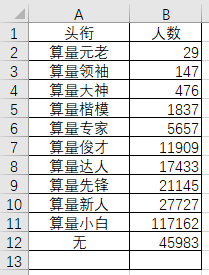
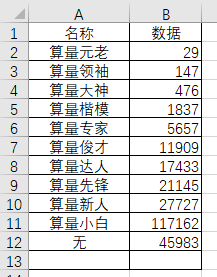
统一格式，导航页修改

diff --git a/src/components/guide.vue b/src/components/guide.vue
@@ -4,27 +4,33 @@
             <el-collapse-item title="百分比饼图 Pie" name="1">
                 <div><h2>数据格式</h2></div>
                 <div><img src="../assets/pie.png"></div>
-                <div><span>第一列为数据名，第二列为数据（表头除外）</span></div>
+                <div><span>表头固定，为“名称”和“数据”，第一列为数据名，第二列为数据</span></div>
+                <div><span>名称不能为空，否则这一项无法生成</span></div>
+                <a href="./static/xlsx/piecharts成长值.xlsx" download="pie.xlsx">Download file</a>
             </el-collapse-item>
             <el-collapse-item title="线柱图 Line/Bar" name="2">
                 <div><h2>数据格式</h2></div>
-                <div><img src="../assets/line.png"></div>
+                <div><img src="../assets/line2.png"></div>
                 <div>
-                    <span>第一列为数据名，第一行为生成表的X轴节点</span><br>
+                    <span>第一列为数据名，第一行为生成表的X轴节点，内容均不限</span><br>
                     <span>数据行数内不要有空缺，否则生成的图表节点会前移自动填补空缺</span><br>
                     <span>数据行数不限定，但数据相差过大可能影响生成的表的美观度</span><br>
 
-                    <img src="../assets/line2.png"><br>
-                    <span><b>配置项：</b><br>1.表项“Y”，值为“左”或“右”代表左y轴或右y轴，目前默认左为百分率右为数量</span><br>
-                    <span>2.表项“TYPE”，值为“bar”或“line”代表生成柱状图或折线图（默认为折线图）</span>
-
+                    <img src="../assets/line.png"><br>
+                    <span><b>可增加配置项：</b><br>1.表头“Y”，值为“左”或“右”代表左y轴（数量）或右y轴（百分率）</span><br>
+                    <span>2.表头“TYPE”，值为“bar”或“line”代表生成柱状图或折线图（默认为折线图）</span>
+                    <a href="./static/xlsx/linecharts日活月活崩溃率.xlsx" download="line.xlsx">Download file</a>
+                    <br>
+                    <div><img src="../assets/guide.png"></div>
+                    <span>此外所有图表右上角还有工具栏可对图表进行一些操作如显示局部区域，修改数据，下载原图或者显示/隐藏标签</span>
                 </div>
             </el-collapse-item>
             <el-collapse-item title="地图 Map" name="3">
                 <div><h2>数据格式</h2></div>
                 <div><img src="../assets/map.png"> </div>
-                <span>第一列为省份名称，第一行为数据名</span><br>
+                <span>表头固定，为“名称”和“数据”，第一列为省份名称，第二列为数据</span><br>
                 <span>生成的图表的颜色调整范围根据最大值和最小值设定</span><br>
+                <a href="./static/xlsx/mapchart用户活跃度分布.xlsx" download="map.xlsx">Download file</a>
             </el-collapse-item>
         </el-collapse>
 
@@ -36,7 +42,7 @@
     export default {
         data() {
             return {
-                activeNames: ['1']
+                activeNames: ['2']
             };
         },
         methods: {
@@ -49,6 +55,10 @@
 span{
     line-height: 40px;
     font-size: medium;
+}
+a{
+    color: #333333;
+    display:block;
 }
 
 </style>

diff --git a/vue.config.js b/vue.config.js
@@ -1,0 +1,147 @@
+module.exports = {
+
+    /* 部署应用包的基本URL */
+    /* baseUrl 从 Vue CLI 3.3 起已弃用 ，请使用publicPath */
+    //  baseUrl: process.env.NODE_ENV === "production" ? "./" : "./",
+    publicPath: process.env.NODE_ENV === "production" ? "./" : "./",
+
+    /* 生产环境构建文件的目录 defalut: dist */
+
+    outputDir: "dist",
+
+    /* 放置生成的静态文件目录（js css img） */
+
+    assetsDir: "static",
+
+    /* 指定生成的index.html 输出路径 相对 default: index.html */
+
+    indexPath: "index.html",
+
+    /* 指定生成文件名中包含hash default: true */
+
+    filenameHashing: true,
+
+    /* 多页模式下 */
+
+    /* pages: {
+
+      index: {
+
+        // page 的入口
+
+        entry: "src/index/main.js",
+
+        // 模板来源
+
+        template: "public/index.html",
+
+        // 在 dist/index.html 的输出
+
+        filename: "index.html",
+
+        // 当使用 title 选项时，
+
+        // template 中的 title 标签需要是 <title><%= htmlWebpackPlugin.options.title %></title>
+
+        // title: "Index Page",
+
+        // 在这个页面中包含的块，默认情况下会包含
+
+        // 提取出来的通用 chunk 和 vendor chunk。
+
+        chunks: ["chunk-vendors", "chunk-common", "index"]
+
+      },
+
+      // 当使用只有入口的字符串格式时，
+
+      // 模板会被推导为 `public/subpage.html`
+
+      // 并且如果找不到的话，就回退到 `public/index.html`。
+
+      // 输出文件名会被推导为 `subpage.html`。
+
+      // subpage: "src/subpage/main.js"
+
+    } */
+
+    /* 是否保存时 lint 代码 */
+
+    lintOnSave: process.env.NODE_ENV === "production",
+
+    /* 是否使用编译器 default: false */
+
+    runtimeCompiler: false,
+
+    /* 默认babel-loader会忽略node_modules中的文件，你想显示的话在这个选项中列出来 */
+
+    // transpileDependencies: [],
+
+    /* 生产环境的source map */
+
+    productionSourceMap: true,
+
+    // crossorigin: "",
+
+    integrity: false,
+
+    configureWebpack: {
+        resolve: {
+            alias: {
+                'assets': '@/assets',
+                'components': '@/components',
+                'views': '@/views',
+            }
+        }
+    },
+
+    // css相关配置
+
+    css: {
+
+        // 是否使用css分离插件 ExtractTextPlugin
+
+        extract: true,
+
+        // 开启 CSS source maps?
+
+        sourceMap: false,
+
+        // css预设器配置项
+
+        loaderOptions: {},
+
+        // 启用 CSS modules for all css / pre-processor files.
+
+        modules: false
+
+    },
+
+    devServer: {
+
+        port: 8080,
+
+        host: "0.0.0.0",
+
+        https: false,
+
+        // 自动启动浏览器
+
+        open: false,
+
+        proxy: {
+            "/api": {
+                //代理路径 例如 https://baidu.com
+                target:  "https://baidu.com",
+                // 将主机标头的原点更改为目标URL
+                changeOrigin: true,
+                ws: true,
+                pathRewrite: {
+                    "^/api": ""
+                }
+            }
+        }
+
+    }
+
+};

diff --git a/src/components/linechart.vue b/src/components/linechart.vue
@@ -35,16 +35,15 @@
     //修改表内数据
     function SetTable(data) {
         var series = [];
-
         for (var key in data) {
             //数据名称
-            let name = data[key]['名称'];
+            var name = data[key]['名称'];
             //类型
-            let TYPE = 'line';
+            var TYPE = 'line';
             //Y轴
-            let Y = '0';
+            var Y = '0';
             //数据值数组
-            let array = Object.values(data[key]);
+            var array = Object.values(data[key]);
             //筛出配置项
             for(let i=0; i<array.length; i++)
             {
@@ -64,7 +63,7 @@
                     array[i] *= 100;
                     array[i] = array[i].toFixed(2);
                 }
-                Y=0;
+                Y=1;
             }
             series.push({
                 name: name,
@@ -82,6 +81,17 @@
         }
 
         return series;
+    }
+
+    function SetLegend(data){
+        var legend = {
+            data:[]
+        };
+        for (var key in data) {
+            var name = data[key]['名称'];
+            legend.data.push(name)
+        }
+        return legend;
     }
 
     export default {
@@ -134,8 +144,10 @@
                             interval:0
                         },
                     },
-                    series: SetTable(this.tableData)
-
+                    //设置数据
+                    series: SetTable(this.tableData),
+                    //设置legend
+                    legend:SetLegend(this.tableData),
 
                 })
             },
@@ -199,25 +211,26 @@
                     yAxis: [
                         {
                             type: 'value',
-                            name: '百分率',
-                            axisLabel: {
-                                formatter: '{value} %'
-                            }
-                        },
-                        {
-                            type: 'value',
                             name: '数量',
                             axisLabel: {
                                 formatter: '{value}'
                             }
                         },
+                        {
+                            type: 'value',
+                            name: '百分率',
+                            axisLabel: {
+                                formatter: '{value} %'
+                            }
+                        },
+
                     ],
                     series: [
                         {
                             name: '崩溃率',
                             data: ["0.67", "1.34", "1.12", "2.54", "1.45", "0.75"],
                             type: 'line',
-                            yAxisIndex: 0,
+                            yAxisIndex: 1,
                             label:{
                                 show:true
                             }

diff --git a/src/components/piechart.vue b/src/components/piechart.vue
@@ -13,18 +13,18 @@
 <script>
     import echarts from 'echarts'
     import UploadExcelComponent from './upload'
-    //获取人数
+    //获取数据
     function updateChart(data) {
         var res = [];
         for(var key in data){
             //忽略总计格
-            if ( data[key]['头衔']!=='总计'){
+
                 res.push({
-                    name: data[key]['头衔'],
-                    value: data[key]['人数'],
+                    name: data[key]['名称'],
+                    value: data[key]['数据'],
                 });
             }
-        }
+
         return res;
     }
     //获取名称
@@ -33,7 +33,7 @@
         var res=[];
         for(let key in tabledata)
         {
-            res.push(tabledata[key]['头衔'])
+            res.push(tabledata[key]['名称'])
         }
 
         return res;

diff --git a/src/components/mapchart.vue b/src/components/mapchart.vue
@@ -17,12 +17,13 @@
 
    function UpdateEcharts(data) {
        var res = [];
+
         for(var key in data){
-            //作为测试只提取了省份名和应用锁两个数据，后期可以通过加series来增加显示数据
-            if ( data[key]['分支']){
+            //只提取了两个数据
+            if ( data[key]['名称']){
                 res.push({
-                    name: data[key]['分支'],
-                    value: data[key]['应用锁']
+                    name: data[key]['名称'],
+                    value: data[key]['数据']
                 });
             }
         }
@@ -83,7 +84,7 @@
                     },
 
                     series: [{
-                        name:'应用锁',
+                        name:'数据',
                         data: newdata,
                     }],
 
